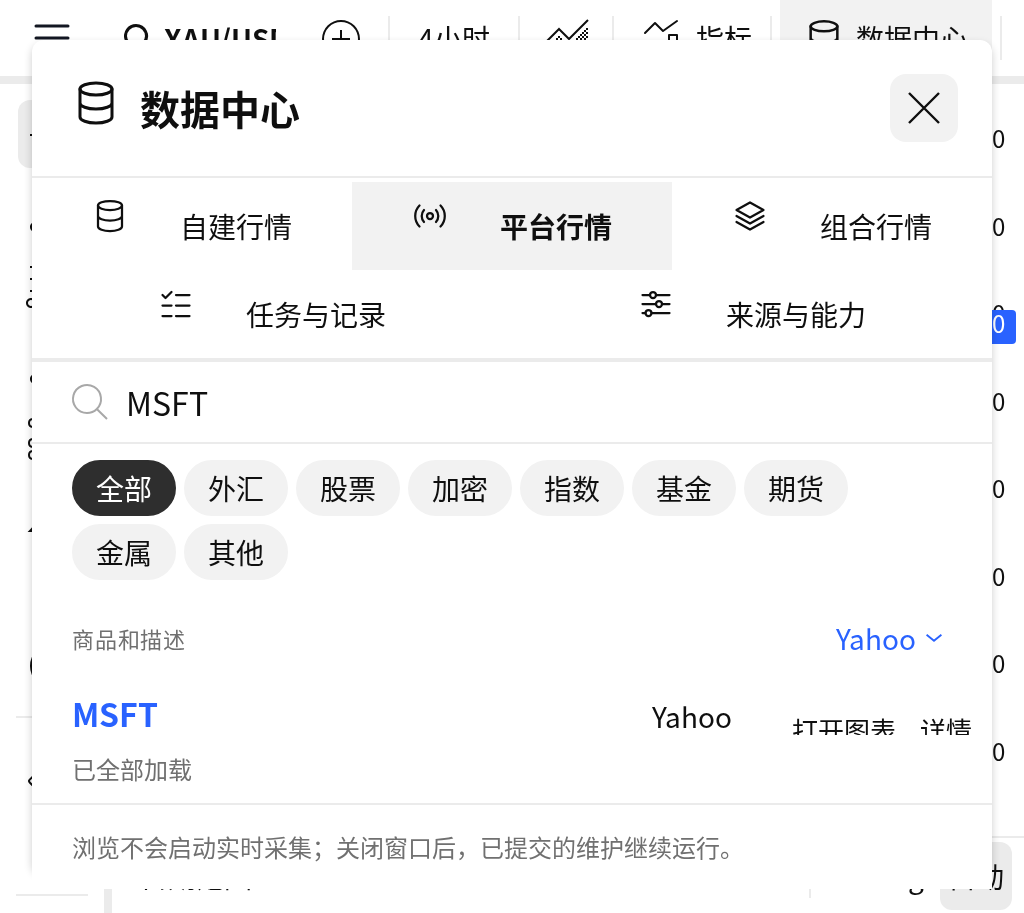
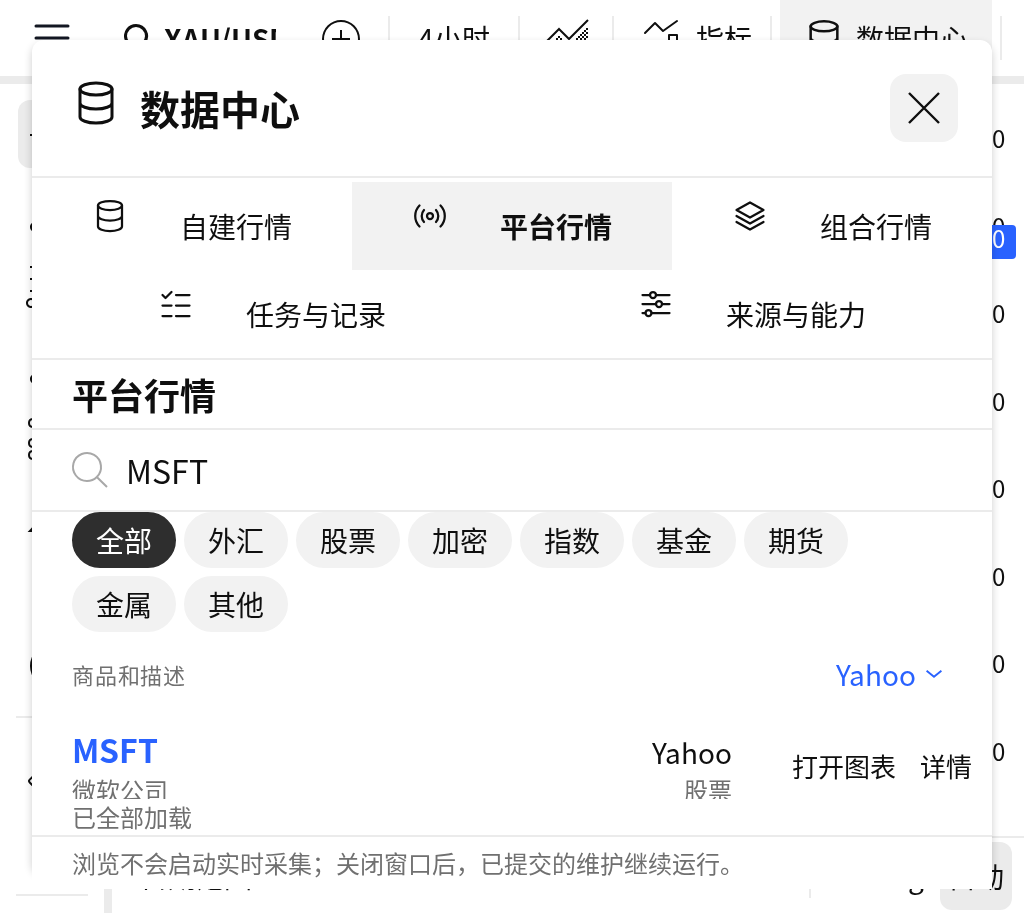
fix(data-center): restore visible platform market page title

diff --git a/web/src/market-data/window.css b/web/src/market-data/window.css
@@ -213,7 +213,14 @@
 
 /* Platform markets follow the native symbol-search layout, without page controls. */
 .dc-window .data-center.dc-platform {height:100%;min-height:0;padding:0;gap:0;display:flex;flex-direction:column;overflow:hidden;}
-.dc-visually-hidden {position:absolute!important;width:1px!important;height:1px!important;padding:0!important;margin:-1px!important;overflow:hidden!important;clip-path:inset(50%);white-space:nowrap;border:0!important;}
+.dc-platform-title {flex-shrink:0;padding:12px 20px;}
+@media(max-height:650px){
+ .dc-platform-title {padding-block:4px;}
+ .dc-platform .mw-platform-inline>div:has([data-name=round-tabs-buttons]),
+ .dc-platform [data-name=round-tabs-buttons] {padding-block:0;}
+ .dc-platform .mw-platform-status {padding-block:0;}
+ .dc-window:has(.dc-platform) .dc-window-footer {padding-block:4px;}
+}
 .dc-platform-search {flex:1;min-height:0;width:100%;}
 .dc-platform-detail {flex:0 1 auto;max-height:40%;overflow:auto;border-top:1px solid var(--line);padding:12px 20px;}
 .dc-platform-detail .dc-heading {margin-bottom:8px;}

diff --git a/web/src/market-data/PlatformMarket.tsx b/web/src/market-data/PlatformMarket.tsx
@@ -80,7 +80,7 @@ export function PlatformMarket() {
   useCenterRowRestore(revision);
   useEffect(() => { if (detail) document.getElementById("platform-detail")?.focus(); }, [detail]);
   return <section className="data-center dc-platform">
-    <h1 className="dc-visually-hidden">平台行情</h1>
+    <h1 className="dc-platform-title">平台行情</h1>
     {error && <p role="alert" className="error">{error}</p>}
     {ui ? <NativeSlot key={refresh} kind="platformSearch" className="dc-platform-search" props={{
       query, source, asset: Object.entries(assetTypes).find(([, value]) => value === asset)?.[0] || asset,

diff --git a/docs/verification/platform-market-search-20261009/README.md b/docs/verification/platform-market-search-20261009/README.md
@@ -4,7 +4,7 @@
 
 ## 结果与实现
 
-“平台品种”改为“平台行情”，导航与配置返回文案同步。第一行整行原生搜索；第二行实际原生圆角类别标签；来源筛选在结果表头右侧，每行右侧显示中文类别及来源。结果行保留“打开图表”和“详情”；原生周期、M1 历史、更新时间、配置原生参数及添加自建行情收进详情区。平台列表移除页码和翻页按钮，触底加载，每批 50 条；末尾提示全部加载，失败保留已有结果并可重试同一批。
+“平台品种”改为“平台行情”，导航与配置返回文案同步。内容区最上方显示“平台行情”标题，其下整行原生搜索，再下一行实际原生圆角类别标签；来源筛选在结果表头右侧，每行右侧显示中文类别及来源。结果行保留“打开图表”和“详情”；原生周期、M1 历史、更新时间、配置原生参数及添加自建行情收进详情区。平台列表移除页码和翻页按钮，触底加载，每批 50 条；末尾提示全部加载，失败保留已有结果并可重试同一批。
 
 复用固定 TT v31.1.0 的 `SymbolSearchItemsDialog`、`DialogSearch`、原生 round tabs、来源选择界面、`SymbolSearchDialogContentItem` 及滚动触底观察器。没有克隆或提交许可源码；没有打开第二个商品搜索窗口。独立 vendor React root 继续由 `NativeSlot` 挂载，`contentItem` 的原生操作插槽承载应用动作；HTTP、认证与图表应用仍由已有可信主应用 RPC/目标图格保护执行。
 
@@ -49,3 +49,8 @@ node web/tests/chart-data-center-platform-search.browser.cjs
 LD_LIBRARY_PATH=/tmp/pwlibs/root/usr/lib/x86_64-linux-gnu:/tmp/pwlibs/root/lib/x86_64-linux-gnu \
 node web/tests/chart-data-center-platform-actions.browser.cjs
 ```
+
+
+## 页标题补充（2026-10-09）
+
+按用户反馈恢复平台分区顶部的可见“平台行情”标题，与其他分区沿用相同字体并对齐搜索输入左侧。标题固定在结果滚动区域上方，提供明确的当前位置。矮视口下缩小标题、类别标签与底部提示的上下留白，保证 200% 缩放时打开图表仍可见。更新后的 Ubuntu Docker 镜像重新通过平台专项 11 组检查（包含标题在搜索框上方、暗亮主题与 375/768/1440 px 可见性）及实际 200% 缩放的 3 组检查，无页面异常。截图与平台/缩放报告同步更新；本次只重建并更新 web 服务。
